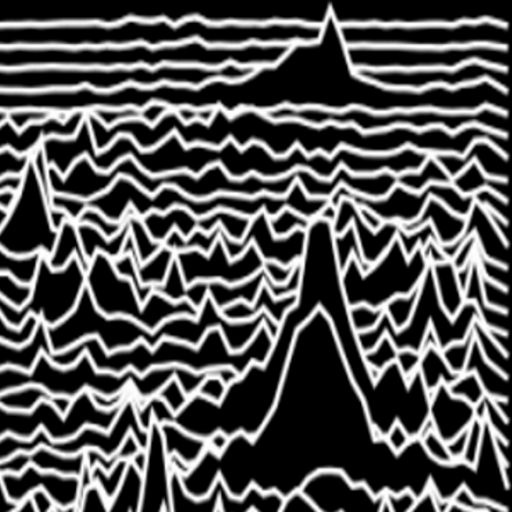
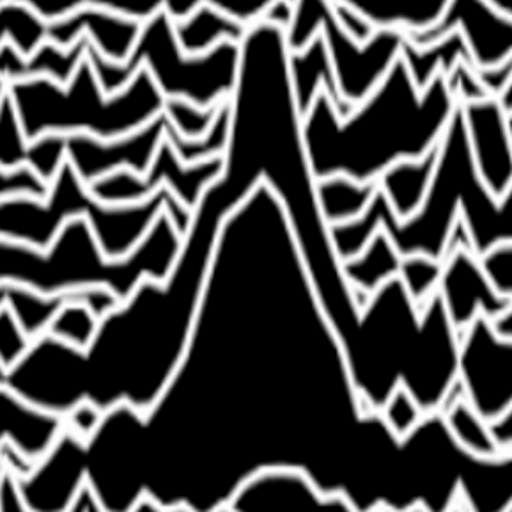
version 1.1: initialization fixed for first run; parameters adjusted

diff --git a/app/B2020+12/src/main/java/de/stefanlober/b2020/controller/AudioController.kt b/app/B2020+12/src/main/java/de/stefanlober/b2020/controller/AudioController.kt
@@ -16,7 +16,7 @@ class AudioController(private var view: IView, private var fftWrapper: FftWrappe
     private val channel = AudioFormat.CHANNEL_IN_MONO
     private val sampleRate = 44100
 
-    private val listSize = 50
+    private val listSize = 40
 
     private var isActive: Boolean = false
 
@@ -24,32 +24,28 @@ class AudioController(private var view: IView, private var fftWrapper: FftWrappe
     private lateinit var data: ShortArray
     private val dataList: ArrayList<DoubleArray> = ArrayList()
 
-    fun init() {
-        try {
-            audioRecorder = AudioRecord.Builder()
-                .setAudioSource(MediaRecorder.AudioSource.MIC)
-                .setAudioFormat(
-                    AudioFormat.Builder()
-                        .setEncoding(encoding)
-                        .setSampleRate(sampleRate)
-                        .setChannelMask(channel)
-                        .build()
-                )
-                .build()
-        } catch (ex: Exception) {
-            Logger.getLogger("B2020Logger").log(Level.WARNING, "init")
-        }
-    }
-
     fun start() {
         try {
+            if(audioRecorder == null) {
+                audioRecorder = AudioRecord.Builder()
+                    .setAudioSource(MediaRecorder.AudioSource.MIC)
+                    .setAudioFormat(
+                        AudioFormat.Builder()
+                            .setEncoding(encoding)
+                            .setSampleRate(sampleRate)
+                            .setChannelMask(channel)
+                            .build()
+                    )
+                    .build()
+            }
+
             data = ShortArray(AudioRecord.getMinBufferSize(sampleRate, channel, encoding))
             audioRecorder?.startRecording()
             isActive = true
 
             read()
         } catch (ex: Exception) {
-            Logger.getLogger("B2020Logger").log(Level.WARNING, "start")
+            Logger.getLogger("B2020Logger").log(Level.WARNING, "start", ex)
         }
     }
 
@@ -58,7 +54,7 @@ class AudioController(private var view: IView, private var fftWrapper: FftWrappe
             audioRecorder?.stop()
             isActive = false
         } catch (ex: Exception) {
-            Logger.getLogger("B2020Logger").log(Level.WARNING, "stop")
+            Logger.getLogger("B2020Logger").log(Level.WARNING, "stop", ex)
         }
     }
 
@@ -68,49 +64,48 @@ class AudioController(private var view: IView, private var fftWrapper: FftWrappe
             audioRecorder?.release()
             audioRecorder = null
         } catch (ex: Exception) {
-            Logger.getLogger("B2020Logger").log(Level.WARNING, "cleanUp")
+            Logger.getLogger("B2020Logger").log(Level.WARNING, "cleanUp", ex)
         }
     }
 
     private fun read() {
-        Executors.newSingleThreadExecutor(PriorityThreadFactory(Thread.NORM_PRIORITY + 1)).execute {
-            try {
-                while (isActive) {
-                    val read = audioRecorder!!.read(data, 0, data.size, AudioRecord.READ_BLOCKING)
-                    if (read > 0) {
-                        //Logger.getLogger("B2020Logger").log(Level.INFO,  System.currentTimeMillis().toString() + " processData " + Thread.currentThread().name)
-                        processData(data)
+        Thread {
+            run {
+                try {
+                    android.os.Process.setThreadPriority(android.os.Process.THREAD_PRIORITY_URGENT_AUDIO);
+
+                    while (isActive) {
+                        val read = audioRecorder!!.read(data, 0, data.size, AudioRecord.READ_BLOCKING)
+                        if (read > 0) {
+                            //Logger.getLogger("B2020Logger").log(Level.INFO,  System.currentTimeMillis().toString() + " processData " + Thread.currentThread().name)
+                            processData(data)
+                        }
                     }
+                } catch (ex: Exception) {
+                    Logger.getLogger("B2020Logger").log(Level.WARNING, "read", ex)
                 }
-            } catch (ex: Exception) {
-                Logger.getLogger("B2020Logger").log(Level.WARNING, "read")
             }
-        }
+        }.start()
     }
 
     private fun processData(data: ShortArray) {
-        Executors.newSingleThreadExecutor(PriorityThreadFactory(Thread.NORM_PRIORITY + 1)).execute {
-            try {
-                //Logger.getLogger("B2020Logger").log(Level.INFO,  System.currentTimeMillis().toString() + " calculate " + Thread.currentThread().name)
-                val scaledOutput = fftWrapper.calculate(data)
+        Thread {
+            run {
+                try {
+                    android.os.Process.setThreadPriority(android.os.Process.THREAD_PRIORITY_MORE_FAVORABLE);
+                    //Logger.getLogger("B2020Logger").log(Level.INFO,  System.currentTimeMillis().toString() + " calculate " + Thread.currentThread().name)
+                    val scaledOutput = fftWrapper.calculate(data)
 
-                dataList.add(0, scaledOutput)
-                while (dataList.size > listSize)
-                    dataList.removeAt(listSize)
+                    dataList.add(0, scaledOutput)
+                    while (dataList.size > listSize)
+                        dataList.removeAt(listSize)
 
-                Logger.getLogger("B2020Logger").log(Level.INFO,  (System.currentTimeMillis() % 3600000).toString() + " view.update ")
-                view.update(dataList)
-            } catch (ex: Exception) {
-                Logger.getLogger("B2020Logger").log(Level.WARNING, "callback", ex)
+                    Logger.getLogger("B2020Logger").log(Level.INFO, (System.currentTimeMillis() % 3600000).toString() + " view.update ")
+                    view.update(dataList)
+                } catch (ex: Exception) {
+                    Logger.getLogger("B2020Logger").log(Level.WARNING, "callback", ex)
+                }
             }
-        }
-    }
-
-    private class PriorityThreadFactory(val priority: Int) : ThreadFactory {
-        override fun newThread(runnable: Runnable): Thread {
-            var thread = Thread(runnable)
-            thread.priority = priority
-            return thread
-        }
+        }.start()
     }
 }

diff --git a/app/B2020+12/src/main/java/de/stefanlober/b2020/view/FullscreenActivity.kt b/app/B2020+12/src/main/java/de/stefanlober/b2020/view/FullscreenActivity.kt
@@ -2,7 +2,6 @@ package de.stefanlober.b2020.view
 
 import android.Manifest
 import android.annotation.SuppressLint
-import android.app.Activity
 import android.content.pm.PackageManager
 import android.content.res.Configuration
 import android.os.Bundle
@@ -16,7 +15,6 @@ import fft.IFft
 import fft.JniFft
 import java.util.logging.Level
 import java.util.logging.Logger
-
 
 class FullscreenActivity : AppCompatActivity(), IView {
     private lateinit var chartView: ChartView
@@ -32,10 +30,17 @@ class FullscreenActivity : AppCompatActivity(), IView {
 
         Logger.getLogger("B2020Logger").log(Level.INFO, "onCreate")
 
+        if (ContextCompat.checkSelfPermission(this, Manifest.permission.RECORD_AUDIO) != PackageManager.PERMISSION_GRANTED) {
+            val permissions = arrayOf(Manifest.permission.RECORD_AUDIO)
+            ActivityCompat.requestPermissions(this, permissions,0)
+        }
+
         setContentView(R.layout.activity_fullscreen)
         supportActionBar?.setDisplayHomeAsUpEnabled(true)
+        supportActionBar?.hide()
 
         chartView = findViewById(R.id.chart_view)
+        setMargin(resources.configuration.orientation)
 
         fft = JniFft(fftSize)
         fftWrapper = FftWrapper(fft, fftSize, cutOff)
@@ -43,27 +48,11 @@ class FullscreenActivity : AppCompatActivity(), IView {
         audioController = AudioController(this, fftWrapper)
     }
 
-    override fun onPostCreate(savedInstanceState: Bundle?) {
-        super.onPostCreate(savedInstanceState)
-
-        Logger.getLogger("B2020Logger").log(Level.INFO, "onPostCreate")
-
-        setMargin(resources.configuration.orientation)
-        supportActionBar?.hide()
-
-        if (ContextCompat.checkSelfPermission(this, Manifest.permission.RECORD_AUDIO) != PackageManager.PERMISSION_GRANTED) {
-            val permissions = arrayOf(Manifest.permission.RECORD_AUDIO)
-            ActivityCompat.requestPermissions(this, permissions,0)
-        }
-
-        Thread.currentThread().priority = Thread.MAX_PRIORITY - 1
-
-        audioController.init()
-    }
-
     override fun onResume() {
         super.onResume()
         Logger.getLogger("B2020Logger").log(Level.INFO, "onResume")
+
+        android.os.Process.setThreadPriority(android.os.Process.THREAD_PRIORITY_URGENT_DISPLAY);
 
         audioController.start()
     }
@@ -90,12 +79,12 @@ class FullscreenActivity : AppCompatActivity(), IView {
     }
 
     private fun setMargin(orientation: Int) {
-        if (orientation === Configuration.ORIENTATION_LANDSCAPE) {
-            chartView.xMarginFraction = 0.12F
-            chartView.yMarginFraction = 0.2F
-        } else if (orientation === Configuration.ORIENTATION_PORTRAIT) {
-            chartView.xMarginFraction = 0.02F
-            chartView.yMarginFraction = 0.32F
+        if (orientation == Configuration.ORIENTATION_PORTRAIT) {
+            chartView.xMarginFraction = ChartView.portraitXMargin
+            chartView.yMarginFraction = ChartView.portraitYMargin
+        } else if (orientation == Configuration.ORIENTATION_LANDSCAPE) {
+            chartView.xMarginFraction = ChartView.landscapeXMargin
+            chartView.yMarginFraction = ChartView.landscapeYMargin
         }
     }
 

diff --git a/app/B2020+12/src/main/java/de/stefanlober/b2020/view/ChartView.kt b/app/B2020+12/src/main/java/de/stefanlober/b2020/view/ChartView.kt
@@ -21,8 +21,16 @@ class ChartView : View {
         init()
     }
 
-    var xMarginFraction: Float = 0.02F
-    var yMarginFraction: Float = 0.32F
+    companion object {
+        const val portraitXMargin = 0.07F
+        const val portraitYMargin = 0.32F
+        const val landscapeXMargin = 0.15F
+        const val landscapeYMargin = 0.2F
+    }
+
+    var xMarginFraction: Float = landscapeXMargin
+    var yMarginFraction: Float = landscapeYMargin
+
     private var dataList: ArrayList<DoubleArray>? = null
     private var paint: Paint = Paint()
     private var erasePaint: Paint = Paint()
@@ -30,14 +38,14 @@ class ChartView : View {
 
     private fun init() {
         paint.color = Color.WHITE
-        paint.strokeWidth = 2.5F
+        paint.strokeWidth = 1.5F * getResources().getDisplayMetrics().density;
         paint.style = Paint.Style.STROKE
         paint.isAntiAlias = true
 
         erasePaint.color = Color.BLACK
         //erasePaint.strokeWidth = 1F
         erasePaint.style = Paint.Style.FILL
-        erasePaint.isAntiAlias = true
+        //erasePaint.isAntiAlias = true
     }
 
     fun setData(dataList: ArrayList<DoubleArray>) {
@@ -58,7 +66,7 @@ class ChartView : View {
             val yMargin = height * yMarginFraction
 
             val count = dataList!!.size
-            val stepHeight = ((height - 2 * yMargin) / count).toFloat()
+            val stepHeight = (height - 2 * yMargin) / count
             val yScaleFactor = stepHeight / valueDivisor
             val maxValue = 0.5F * (height - 2 * yMargin)
 
@@ -72,7 +80,8 @@ class ChartView : View {
 
                 for (i in 1 until data.size - 1) {
                     val xCoord = xMargin + i.toFloat() * xScaleFactor
-                    val scaledValue = min(maxValue, (data[i] * yScaleFactor).toFloat())
+                    var scaledValue = (data[i] * yScaleFactor).toFloat()
+                    scaledValue = min(maxValue, scaledValue)
                     val yCoord = yCenter - scaledValue
                     path.lineTo(xCoord, yCoord)
                 }
@@ -87,8 +96,5 @@ class ChartView : View {
 
         //val end = System.currentTimeMillis()
         //Logger.getLogger("B2020Logger").log(Level.INFO, "draw: " + (end - start).toString())
-    }
-
-    private fun drawGraph(canvas: Canvas?, frameOffset: Int) {
     }
 }
